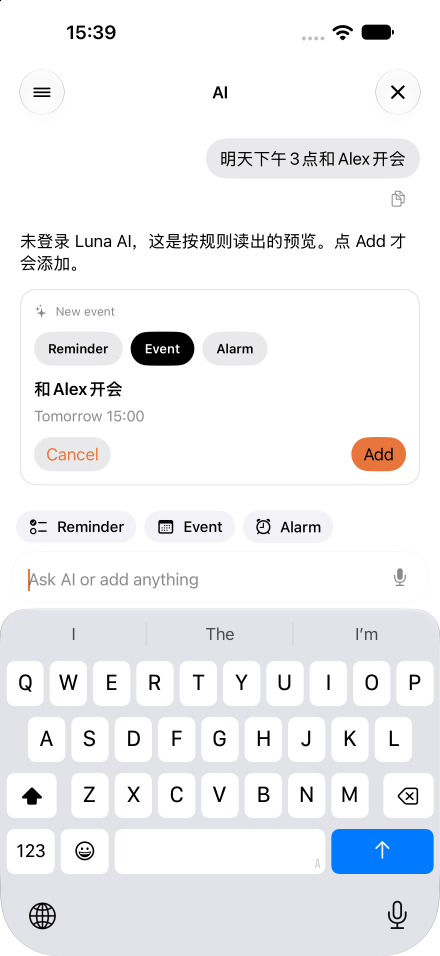
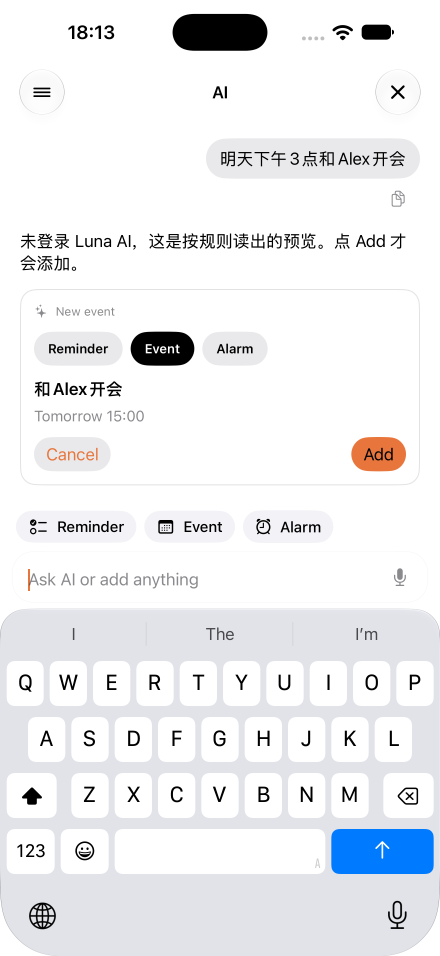
P4 simulator QA; alarm label and Luna screen fixes
- docs/qa/agent-p4-20261101.md: offline / not-signed-in / network-failure
  cases pass on Today-AgentP4; the online cases are blocked by the Worker's
  3-registrations-per-IP-per-day limit (used by another thread today).
- CaptureParser.alarmLabel: "设一个明天早上6点的闹钟" is titled Alarm, not
  "设一个 的".
- Luna AI screen: "GPT-6 Luna" (the strict mode's Medium effort is gone).

Changed region(s): [[0.3841, 0.0, 0.6205, 0.0607], [0.1477, 0.0303, 0.2659, 0.0607]]

diff --git a/ios/Sources/TodayCore/Capture.swift b/ios/Sources/TodayCore/Capture.swift
@@ -1091,6 +1091,13 @@ public enum CaptureParser {
     }
     t = t.replacingOccurrences(of: #"\s+"#, with: " ", options: .regularExpression)
       .trimmingCharacters(in: CharacterSet(charactersIn: " ,，.。:：-"))
+    // Only the request's own words are left ("设一个明天早上6点的闹钟" → "设一个 的"): no label.
+    if t.range(
+      of: #"^(?:帮我)?(?:设(?:置)?|定|订|加)?\s*(?:一?个)?\s*的?$"#, options: .regularExpression)
+      != nil
+    {
+      return "Alarm"
+    }
     guard let first = t.first else { return "Alarm" }
     return first.uppercased() + t.dropFirst()
   }

diff --git a/ios/Eval/Tests/OneLogicTests/FastLaneTests.swift b/ios/Eval/Tests/OneLogicTests/FastLaneTests.swift
@@ -172,6 +172,9 @@ final class FastLaneTests: XCTestCase {
     let alarm = try XCTUnwrap(preview("Set an alarm for 7am tomorrow"))
     XCTAssertTrue(alarm.ringsAsAlarm)
     XCTAssertEqual(alarm.hour, 7)
+    let set = try XCTUnwrap(preview("设一个明天早上6点的闹钟"))
+    XCTAssertTrue(set.ringsAsAlarm)
+    XCTAssertEqual(set.title, "Alarm", "the request's own words are not a label")
     let wake = try XCTUnwrap(preview("明天早上7点叫醒我"))
     XCTAssertTrue(wake.ringsAsAlarm)
     XCTAssertEqual(wake.hour, 7)

diff --git a/ios/Sources/Features/FeatureSettings/AIAccountView.swift b/ios/Sources/Features/FeatureSettings/AIAccountView.swift
@@ -13,7 +13,7 @@
     var body: some View {
       Form {
         Section {
-          Text("GPT-6 Luna · Medium")
+          Text("GPT-6 Luna")
           Text(
             "AI requests send your message and limited relevant chat or planner context to Today AI and OpenAI. Your full calendar, reminders and Health databases stay on your iPhone."
           )

diff --git a/docs/qa/agent-p4-20261101.md b/docs/qa/agent-p4-20261101.md
@@ -1,0 +1,59 @@
+# Agent P4 on a simulator — 2026-11-01
+
+Phase P4 of `docs/engineering/ai-agent-architecture.md`: the agent is the only AI (no flag), the old
+pipeline is deleted (#267 offline previews, #268 flag removal, #277 deletion), the Worker serves agent
+steps only (#269 strict-JSON removal, #278 Decisions removal). This file is the simulator acceptance run.
+
+## Setup
+
+- Simulator **Today-AgentP4** (iPhone 18 Pro Max, iOS 27.0, `664E2161-5A12-4AB1-88B9-305CCC7CC709`),
+  driven only through the T3 `agent-device` command by accessibility refs (no coordinate taps).
+  `./dev build Debug --scheme TodayMock` and `simctl install` were used only to build and install.
+- App: TodayMock (Debug) from branch `agent-p4-delete` (#277), launched with `-uiTesting -dataset
+  <synthetic dataset>`: an in-memory store, synthetic `[QA]` items only (reminder `[QA] 看牙医` tomorrow
+  14:00, `[QA] 取快递` today, `[QA] 交水费` 3 days overdue, event `[QA] 项目周会` tomorrow 10:00 with 3
+  synthetic attendees, `[QA] 午餐` tomorrow 12:00).
+- Three ways the AI can be unreachable, all without a flag:
+  - **Not signed in** (TodayMock default, same as a real user without Luna): no request is made.
+  - **Signed in, request fails** (`-agentLive -agentOffline`, Debug simulator only: the live client
+    pointed at an unreachable port, the same `URLError` → `.network` path as a phone with no
+    connection).
+  - **Signed in, online** (`-agentLive`): the deployed Worker.
+
+## Results: offline and not signed in (all pass)
+
+| # | Case | Message | Result | Screenshot |
+|---|---|---|---|---|
+| A1 | Not signed in · event | 明天下午3点和Alex开会 | **pass** · preview "和Alex开会" Tomorrow 15:00, Add/Cancel; heading "未登录 Luna AI，这是按规则读出的预览。点 Add 才会添加。" Nothing written | `agent-p4-20261101/signedout-event.png` |
+| A2 | Not signed in · alarm | 明天早上7点叫醒我 | **pass** · alarm preview "Alarm Tomorrow 07:00", Add/Cancel | `signedout-alarm.png` |
+| A3 | Not signed in · question | 我明天有什么安排？ | **pass** · "需要登录 Luna AI 才能用 AI。你的草稿还在输入框里；…" and the draft is back in the composer; no card | `signedout-question.png` |
+| A4 | Follow-up to FastLane's own preview | Lunch with Sam tomorrow at noon → make it 4pm | **pass** (after fix 1) · the same card moves 12:00 → 16:00 ("Updated. Nothing is added until you confirm."); no reminder titled "it" | `signedout-followup.png` |
+| A5 | Clear one-off reminder | 明天上午9点提醒我倒垃圾 | **pass** · added directly (Added · Undo · Open, Tomorrow 09:00), also with another preview open | `signedout-direct.png` |
+| A6 | Tidy overdue | 整理逾期 | **pass** (after fix 2) · Tidy card for `[QA] 交水费` (was Oct 29 18:00 → Today), Apply/Cancel | `signedout-tidy.png` |
+| B1 | Signed in, network fails · event | 下周三下午2点和 Alex 开会 | **pass** · local preview (dropped by the next message, visible as Dropped) | `offline-network.png` |
+| B2 | Signed in, network fails · alarm | 设一个明天早上6点的闹钟 | **pass** · alarm preview Tomorrow 06:00 under "AI 暂时不可用，这是按规则读出的预览…" (title fixed by fix 3) | `offline-network.png` |
+| B3 | Signed in, network fails · question | 帮我看看明天下午有没有空 | **pass** · "AI 暂时不可用。你的草稿还在输入框里；…" and the draft is back | `offline-network.png` |
+
+Suggestion chips no longer exist (P4 removed them), so the empty Ask page shows only the heading.
+
+## Results: online agent (P2's seven cases, no flag)
+
+**Blocked, not run.** Registering the synthetic Luna account from the app returned *"Too many
+attempts. Please try again later."* (Worker `429`): the Worker allows 3 registrations per IP per UTC
+day, and another thread registered three `qa-fix-*` accounts at 02:02 UTC (18:02 PST), using up this
+UTC day. The limit resets at 00:00 UTC (16:00 PST, 2026-11-02). The production `buckets` counter was
+not touched. No agent request was made, so Luna spend for this run is **$0**.
+
+## Bugs found and fixed (in #277)
+
+1. **"make it 4pm" became a new reminder titled "it".** With FastLane's own preview open, a follow-up
+   that also passes the one-off gate was written directly. Older than P4 (the one-off gate ran first
+   before FastLane existed too). Ask now reads the message as an answer to the open preview before the
+   one-off gate; a new request ("Remind me to call Mom at 5pm") is not a refinement and still goes direct.
+2. **"整理逾期" was added as a reminder titled "整理逾期".** `OverdueTidy` and the routing only knew 过期;
+   they now accept 逾期 too, and the one-off gate refuses any Tidy request (unit test
+   `FastLaneTests.testATidyRequestIsNeverADirectReminder`).
+3. **An alarm from "设一个明天早上6点的闹钟" was titled "设一个 的".** `CaptureParser.alarmLabel` now returns
+   "Alarm" when only the request's own words are left.
+4. The Luna account screen still said "GPT-6 Luna · Medium" (the deleted strict mode's effort); it now
+   says "GPT-6 Luna" and shows today's AI requests (agent runs) instead of the old per-call quota.
